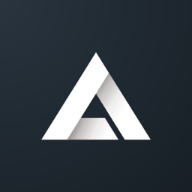
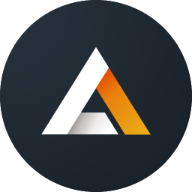
- feat: added home profile - feat: view blue transition

diff --git a/src/components/ProfileContainer.vue b/src/components/ProfileContainer.vue
@@ -1,13 +1,13 @@
 <template>
   <div class="profile-grid">
     <!-- Row 1 -->
-    <div class="image-container" @click="profileService.flipImage">
-      <transition name="slide">
+    <div class="image-container" :class="{'shrink': shrink}" @click="profileService.spinImage()">
+      <transition name="flip">
         <div v-if="profileService.showFront" class="image-wrapper front">
           <img :src="profileService.frontImage" alt="Front Image">
         </div>
         <div v-else class="image-wrapper back">
-          <img :src="profileService.backImage" alt="Back Image">
+          <img :src="profileService.logoActive" alt="LxM Logo Active">
         </div>
       </transition>
     </div>
@@ -71,6 +71,10 @@ export default {
       type: Boolean,
       default: false,
     },
+    shrink: {
+      type: Boolean,
+      default: false,
+    }
   },
   setup() {
     return {
@@ -93,8 +97,9 @@ export default {
             this.$refs.welcomeButton.classList.add('fade--in')
           })
         } else {
+          this.ctaVisible = false
           this.$nextTick(() => {
-            this.fadeService.apply(this.$refs.contactForm, 'slow')
+            this.fadeService.apply(this.$refs.contactForm)
             this.fadeService.apply(this.$refs.welcomeButton, 'fast')
           })
         }
@@ -168,6 +173,12 @@ export default {
   width: 300px; /* Set the desired width of the image container */
   height: 300px; /* Set the desired height of the image container */
   perspective: 800px; /* Set the perspective for the 3D effect */
+  transition-property: width, height; /* Make shrink class avaliable */
+  transition-duration: 0.75s;
+}
+.image-container.shrink {
+  width: 200px;
+  height: 200px;
 }
 .image-wrapper {
   position: absolute;
@@ -179,17 +190,30 @@ export default {
 .image-wrapper img {
   width: 100%;
   height: 100%;
+  border-radius: 50%; /* Force images to be round for the flip animation*/
   object-fit: cover; /* Ensure the image covers the entire container */
 }
-.slide-enter-active,
-.slide-leave-active {
-  transition: all 0.75s ease-in-out;
+
+/* <transition name="flip"> */
+.flip-enter-active,
+.flip-leave-active {
+  transition: all 0.75s linear;
 }
-.slide-enter-from {
-  transform: rotateY(180deg) scale(2);
+.flip-enter-from {
+  transform: rotateY(-180deg) scale(1.5);
 }
-.slide-leave-to {
+.flip-leave-to {
   transform: rotateY(180deg);
+}
+
+/* <transition name="fade"> */
+.fade-enter-active,
+.fade-leave-active {
+  transition: opacity 0.75s ease-in-out;
+}
+.fade-enter-from,
+.fade-leave-to {
+  opacity: 0;
 }
 
 /* Contact Form */

diff --git a/src/Core.vue b/src/Core.vue
@@ -1,15 +1,26 @@
 <template>
   <!-- View Stack -->
-  <div ref="viewProfile" class="view view--profile">
-    <div style="height: 10vh;"></div>
-    <ProfileContainer 
-      height="40vh"
+  <div ref="viewHome" class="view view--blue"></div>
+  <div ref="viewProfile" class="view view--white" :class="{ 'view--clear' : viewHome }">
+    <div style="height: 8vh;"></div>
+    
+    <ProfileContainer
       :loading="emailSending"
       :showCta="showCta"
       :heading="heading"
+      :shrink="viewHome"
       @printed="onPrinted"
       @discover="onDiscover"
     />
+
+    <div style="height: 4vh;"></div>
+    
+    <!-- <transition name="fade">
+      <div v-if="!viewHome"></div>
+      <div v-else style="width: 100%; height: calc(100vh - 12vh - 260px); background-image: var(--gradient-dark)">
+
+      </div>
+    </transition> -->
   </div>
   <div ref="viewInitial" class="view view--white"></div>
 </template>
@@ -37,9 +48,10 @@ export default {
       showCta: false,
       heading: '',
       headingInitial: 'Hello, I am Blake Alan',
-      headingIntroduced: 'Welcome to LeadMaxMedia',
+      headingIntroduction: 'Welcome to LeadMaxMedia',
       headingFailureMsg: 'Sorry, try again later',
       headingSuccessMsg: 'Thank you, check your inbox',
+      viewHome: false,
     }
   },
   mounted() {
@@ -58,9 +70,9 @@ export default {
       switch (heading) {
         case this.headingInitial:
           setTimeout(() => {
+            this.heading = this.headingIntroduction
             this.showCta = true
-            this.heading = this.headingIntroduced
-          }, 1000)
+          }, 750)
           break
 
         case this.headingSuccessMsg:
@@ -83,6 +95,7 @@ export default {
         .finally(() => {
           this.emailSending = false
           this.showCta = false
+          this.viewHome = true
         })
     },
   },
@@ -91,4 +104,15 @@ export default {
 
 <style>
 @import './assets/styles/core.css';
+
+/* <transition name="fade"> */
+.fade-enter-active,
+.fade-leave-active {
+  transition: opacity 0.75s ease-in-out;
+}
+.fade-enter-from,
+.fade-leave-to {
+  opacity: 0;
+}
+
 </style>

diff --git a/src/services/ProfileService.js b/src/services/ProfileService.js
@@ -1,10 +1,12 @@
 import { reactive } from 'vue'
 
 const ProfileService = reactive({
-  frontImage: 'blake_profile.png',
-  backImage: 'android-chrome-512x512.png',
+  frontImage: 'blake-profile.png',
+  logoActive: 'logo-active.png',
+  logoWhite: 'logo-white.png',
   loaded: false,
   showFront: true,
+  activeLogo: false,
   load() {
     // front image MUST load
     const image = new Image()
@@ -12,11 +14,15 @@ const ProfileService = reactive({
     image.src = this.frontImage
 
     // back image lazy load
-    const lazy = new Image()
-    lazy.src = this.backImage
+    const lazyActive = new Image()
+    lazyActive.src = this.logoActive
   },
   flipImage() {
     this.showFront = !this.showFront
+  },
+  spinImage() {
+    this.showFront = !this.showFront
+    setTimeout(() => this.showFront = !this.showFront, 750)
   }
 })
 

diff --git a/src/assets/styles/components/view.css b/src/assets/styles/components/view.css
@@ -1,18 +1,16 @@
 .view {
-  background: var(--color-white);
   min-height: 100vh;
   width: 100vw;
   position: absolute;
-}
-.view--waterfall {
-  display: flex;
-  align-items: center;
-  flex-direction: column;
-  justify-content: flex-start;
+  transition: background 0.75s ease;
 }
 .view--blue {
-  background-image: linear-gradient(135deg, var(--color-bluegreen) 0%, var(--color-blue) 74%);
+  background-image: var(--gradient-primary);
 }
-.view-white {
-  background-color: var(--color-white);
+.view--white {
+  background: var(--color-white)
+}
+.view--clear {
+  background: transparent; /* Animation works */
+  background-image: unset !important; /* No animation for background-image*/
 }

diff --git a/src/services/EmailService.js b/src/services/EmailService.js
@@ -11,8 +11,8 @@ const EmailService = reactive({
       to_email: email,
     })
   },
-  sendFaker() {
-    return new Promise(resolve => setTimeout(resolve, 100000, {status: true}))
+  sendFaker(...args) {
+    return new Promise(resolve => setTimeout(resolve, 1, {status: true, args}))
   }
 })
 

diff --git a/src/assets/styles/base/variables.css b/src/assets/styles/base/variables.css
@@ -35,6 +35,11 @@
     var(--color-gray-7) 44.98%,
     var(--color-gray-9) 121.15%
   );
+  --gradient-primary: linear-gradient(
+    135deg, 
+    var(--color-bluegreen) 0%, 
+    var(--color-blue) 74%
+  );
   --gradient-alt: linear-gradient(
     175.6deg,
     var(--color-orange) 44.98%,

diff --git a/src/assets/styles/behaviors/typewriter.css b/src/assets/styles/behaviors/typewriter.css
@@ -6,6 +6,7 @@
   white-space: nowrap;
   margin: 0 auto;
   letter-spacing: 0.15em;
+  min-height: 20px; /* Ensure empty typewriter still takes up div space */
   animation: blink 0.5s step-end infinite;
 }
 .typewriter--inked {
